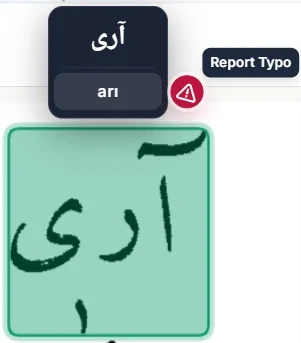
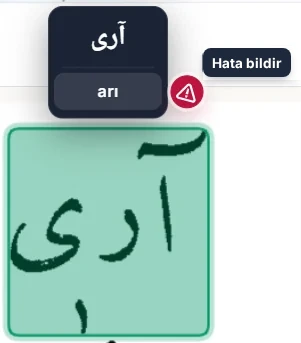
Kilavuz: C5 gorselleri Turkce (Hata bildir, Gonder, Iptal); B5'e Bu kelimeyi ara anlatimi ve gorseli

Changed region(s): [[0.6578, 0.1166, 1.0, 0.2332]]

diff --git a/pages/kullanim-kilavuzu-tr.html b/pages/kullanim-kilavuzu-tr.html
@@ -101,7 +101,7 @@ h2{margin:3.1rem 0 1.05rem;padding-top:.25rem}
   <div class="layout">
       <nav class="toc" aria-label="Bu sayfada"><p class="toc-title">Bu sayfada</p><a href="#ana-sayfa">Ana Sayfa</a><a href="#sonuclar">Arama Sonuçları</a><a href="#sozluk-sayfasi">Sözlük Sayfası</a><a href="#cozucu">Kelime Çözücü</a><a href="#cozucu-sonuc">Kelime Çözücü Sonuçları</a></nav>
       <main class="guide-steps">
-    <section aria-labelledby="ana-sayfa"><h2 id="ana-sayfa">Ana Sayfa</h2><p class="section-intro">LexiQamus iki ayrı arama biçimi sunar. <b>Ara</b> sekmesi okuyabildiğiniz bir kelimeyi doğrudan aramak, <b>Kelime Çözücü</b> ise okuyamadığınız bir kelimeyi elinizdeki ipuçlarından yola çıkarak tespit etmek içindir. İki sekme arasında istediğiniz an geçiş yapabilirsiniz.</p><figure class="shot shot-map" style="--nw:1879;--ar:6.8828"><div class="map"><img src="../assets/kilavuz/a-genel.webp?v=2" width="1879" height="273" alt="Ana sayfanın arama alanı: Kelime Çözücü ve Ara sekmeleri, arama kutusu, Ara düğmesi ve sözlük listesi"><a class="pin pin-sec pin-top" href="#cozucu" style="--x:44.39%;--ty:0.0769" aria-label="B">B</a><a class="pin  pin-top" href="#ara-genel" style="--x:55.56%;--ty:0.0769" aria-label="A1">A1</a><a class="pin pin-bottom" href="#osm-ing" style="--x:6.55%;--ty:0.7289" aria-label="A3">A3</a><a class="pin pin-bottom" href="#iki-taraf" style="--x:16.66%;--ty:0.7289" aria-label="A2">A2</a><a class="pin  pin-bottom" href="#klavye" style="--x:55.51%;--ty:0.7363" aria-label="A3">A3</a><a class="pin  pin-bottom" href="#sozlukler" style="--x:83.18%;--ty:0.7326" aria-label="A4">A4</a></div></figure><article class="block" id="ara-genel"><h3>Ara sekmesi</h3><p>Arama satırı tek bir çubuktan oluşur: solda kelimeyi Latin harfleriyle, sağda Osmanlı harfleriyle yazabileceğiniz alanlar, hemen yanında da hangi sözlüklerde arama yapılacağını belirlediğiniz liste yer alır.</p></article><article class="block" id="iki-taraf"><h3>Arama kutusu: iki taraf, iki alfabe</h3><p>Arama kutusu iki yarıdan oluşur. Sol yarıya kelimeyi <b>Latin harfleriyle</b>, sağ yarıya <b>Osmanlı harfleriyle</b> yazarsınız. İkisini birlikte de kullanabilirsiniz; kelimeyi nasıl okuduğunuzu biliyorsanız Latin tarafına yazmanız yeterlidir.</p><figure class="shot " style="--nw:1686;--ar:11.7902"><img src="../assets/kilavuz/a2-1.webp?v=2" width="1686" height="143" loading="lazy" alt=""></figure></article><article class="block" id="osm-ing"><h3>OSM ve İNG: nerede aranacağı</h3><p>Kutunun başındaki <b>OSM</b> ve <b>İNG</b> düğmeleri, yazdığınızın nerede aranacağını belirler. <b>OSM</b> seçiliyken Osmanlıca kelimeler arasında arama yapılır. <b>İNG</b> seçildiğinde ise arama sözlüklerdeki İngilizce tanımların içinde yapılır; böylece bir İngilizce kelimeyi tanımında geçiren bütün maddeleri görebilirsiniz.</p><figure class="shot shot-narrow" style="--nw:520;--ar:3.6364"><img src="../assets/kilavuz/a3-osm-ing.webp" width="520" height="143" loading="lazy" alt="Arama kutusunun başındaki OSM ve İNG düğmeleri"></figure></article><article class="block" id="klavye"><h3>Osmanlıca yazmak</h3><p>Osmanlıca tarafa tıkladığınızda ekran klavyesi açılır. Harflere tek tek tıklayarak yazabilirsiniz.</p><p>Fakat klavyeyi kullanmak zorunda değilsiniz. Her tuşun üzerinde, o harfe karşılık gelen fiziksel klavye tuşu yazılıdır: <b>A</b> tuşu ا, <b>B</b> tuşu ب, <b>SHF+S</b> ص harfini verir. Yani kelimeyi kendi klavyenizden hızlıca yazabilir, sadece emin olmadığınız harfler için ekrana bakabilirsiniz.</p><figure class="shot" style="--nw:1322;--ar:3.4072"><img src="../assets/kilavuz/a3-1.webp?v=3" width="1322" height="388" loading="lazy" alt="Osmanlıca tarafı seçili arama kutusu ve altında açılan ekran klavyesi"></figure></article><article class="block" id="sozlukler"><h3>Sözlük seçimi</h3><p>Öntanımlı olarak bütün sözlüklerde arama yapılır. Listeyi açıp <b>Tümünü Seç</b> işaretini kaldırdığınızda sözlükleri tek tek seçebilirsiniz.</p><p>Bu, aramayı belirli eserlerle sınırlamak istediğinizde işinize yarar: yalnızca seçtiğiniz sözlüklerden gelen sonuçlar listelenir.</p><figure class="shot shot-narrow" style="--s:0.75;--nw:613;--ar:0.8490"><img src="../assets/kilavuz/a4-1.webp?v=2" width="613" height="722" loading="lazy" alt=""></figure></article></section><section aria-labelledby="sonuclar"><h2 id="sonuclar">Arama Sonuçları</h2><p class="section-intro">Her iki arama biçimi de sizi aynı sonuç listesine götürür. Liste dört sütuna ayrılmıştır ve her satır, bir sözlükte geçen tek bir kaydı gösterir.</p><figure class="shot shot-map" style="--cap:100000px;--nw:1689;--ar:0.7008"><div class="map bands"><img src="../assets/kilavuz/b-ara-sonuclari.webp?v=4" width="1689" height="2410" alt="arı araması: arama kutusu, sonuç başlığı ve Tam Eşleşmeler, Çekimli Biçimler, Türemiş Biçimler, İbareler ve Birleşik Kelimeler, Kısmi Eşleşmeler grupları"><a class="pin pin-right" href="#yazilis-okunus" style="--px:0.7851;--ty:0.1510">·</a><a class="pin pin-right" href="#benzer-okunus" style="--px:0.9728;--ty:0.1884">·</a><a class="pin pin-left" href="#latin-okunuslar" style="--px:0.1835;--ty:0.2979">·</a><a class="pin pin-left" href="#iki-bolge" style="--px:0.0278;--ty:0.3432">·</a><a class="pin pin-top" href="#kategoriler" style="--px:0.3825;--ty:0.2154">·</a><a class="pin pin-right" href="#sozluk-kunye" style="--px:0.9372;--ty:0.2979">·</a></div></figure><article class="block" id="yazilis-okunus"><h3>Yazılışa göre ara</h3><p><b>Yazılışa Göre Ara</b>, aradığınız ifadenin muhtemel yazılış ve okunuşlarını düğmeler halinde sunar. Bir düğmeye tıkladığınızda arama o yazılışa göre yenilenir. Bu yazılış ve okunuşlar bir tahmin değildir; sözlükleri dijitalleştirirken sisteme veri olarak girdiğimiz kayıtlardan gelir. Böylece aynı kelimenin farklı imla ve okunuşlarına tek tıkla geçebilirsiniz.</p><figure class="shot" style="--nw:366;--ar:3.6600"><img src="../assets/kilavuz/b1-yazilis.webp?v=2" width="366" height="100" loading="lazy" alt="arı araması: Yazılışa göre ara düğmeleri (ارى, arı, ârî, eri)"></figure></article><article class="block" id="benzer-okunus"><h3>Benzer Okunuş</h3><p>Osmanlı alfabesinde aynı ya da çok yakın okunan birden fazla harf vardır: <span dir="rtl">ث</span> ile <span dir="rtl">س</span>, <span dir="rtl">ت</span> ile <span dir="rtl">ط</span> gibi. Bir kelimeyi duyduğunuz gibi yazdığınızda, sözlükteki imlası sizinkinden farklı olabilir. <b>Benzer Okunuş</b>, aramanızdaki harflerin yerine ses bakımından benzerlerini de koyarak arar; böylece imlası farklı olduğu için gözden kaçacak sonuçları da listeye ekler. Düğmenin yanındaki sayı, bu genişletmenin kaç sonuç getirdiğini gösterir.</p><figure class="shot" style="--nw:687;--ar:7.0102"><img src="../assets/kilavuz/b2-benzer-okunus.webp" width="687" height="98" loading="lazy" alt="Aramayı genişlet: Tam Eşleşme ve Benzer Okunuş düğmeleri"></figure></article><article class="block" id="latin-okunuslar"><h3>Latin okunuşlar</h3><p>Sonuç satırlarında her Osmanlıca kelimenin yanında bir Latin okunuşu yer alır. Bu okunuşların bir kısmı editörlerimiz tarafından tek tek kontrol edilip onaylanmıştır. Geri kalanı ise Osmanlıca yazılıştan hareketle otomatik olarak üretilmiştir ve bu yüzden her zaman isabetli olmayabilir.</p><p>İkisini ilk bakışta ayırt edebilirsiniz: otomatik üretilmiş okunuşlar soluk, editör onaylı okunuşlar koyu renkte gösterilir. Aşağıdaki ilk iki satırdaki <i>nazar</i> otomatik üretilmiştir, üçüncü satırdaki ise editör onaylıdır.</p><figure class="shot" style="--s:0.5;--nw:1778;--ar:2.9437"><img src="../assets/kilavuz/b-okunus-renk.webp?v=2" width="1778" height="604" loading="lazy" alt="Soluk renkte otomatik üretilmiş okunuşlar ve koyu renkte editör onaylı okunuş"></figure><p>Bir okunuşun üzerine geldiğinizde yanında küçük bir kutu açılır. Kutunun başındaki etiket okunuşun durumunu söyler: <b>Otomatik üretim</b> ya da <b>Editör onaylı</b>. Altındaki iki düğme ise okunuş hakkında bize geri bildirim vermeniz içindir.</p><figure class="shot shot-narrow" style="--s:0.5;--nw:924;--ar:2.2000"><img src="../assets/kilavuz/b-okunus-kutu.webp?v=2" width="924" height="420" loading="lazy" alt="Okunuşun üzerine gelince açılan kutu: Otomatik üretim ve Editör onaylı etiketleri, Doğru ve Düzelt düğmeleri"></figure><p><b>Doğru</b> düğmesiyle okunuşun isabetli olduğunu tek tıkla bildirirsiniz; düğme yeşile döner. Otomatik üretilmiş okunuşlarda bu işaret, hangi okunuşların doğru olduğunu görmemize yardımcı olur. İşaretlenen okunuşları editörlerimiz kontrol eder; kontrolden geçen okunuş <b>Editör onaylı</b> hâline gelir ve koyu renkte gösterilmeye başlar.</p><figure class="shot shot-narrow" style="--s:0.5;--nw:924;--ar:4.5743"><img src="../assets/kilavuz/b-okunus-dogru.webp?v=2" width="924" height="202" loading="lazy" alt="Doğru düğmesine basılmış hâli"></figure><p><b>Düzelt</b> düğmesi bir bildirim penceresi açar. Pencerenin başında kelimenin Osmanlıca yazılışı ile okunuşu durur, altında üç seçenek bulunur. <b>Yanlış</b> pencere açıldığında seçili gelir ve okunuşun neden yanlış olduğunu açıklamanızı ister; doğrusunu biliyorsanız onu da yazabilirsiniz. Okunuşun doğru olduğunu belirtip bir not eklemek isterseniz <b>Doğru</b>’yu seçersiniz; bu durumda not yazmak isteğe bağlıdır. Doğru ya da yanlış demeden okunuş hakkında söylemek istediğiniz bir şey varsa <b>Görüş</b>’ü kullanırsınız.</p><figure class="shot shot-narrow" style="--s:0.5;--nw:680;--ar:1.0759"><img src="../assets/kilavuz/b-okunus-bildirim.webp?v=2" width="680" height="632" loading="lazy" alt="Düzelt ile açılan bildirim penceresi: Doğru, Yanlış, Görüş seçenekleri ve açıklama alanı"></figure><p>Açıklamanızı yazıp <b>Gönder</b>’e bastığınızda bildiriminiz bize ulaşır ve pencerede bir teşekkür mesajı görünür. Gelen bildirimleri de editörlerimiz inceler; okunuş gerekiyorsa düzeltilir ve kontrolün ardından <b>Editör onaylı</b> hâline gelir. Vazgeçerseniz <b>İptal</b>’e basmanız yeterlidir.</p><figure class="shot shot-narrow" style="--s:0.5;--nw:680;--ar:1.5888"><img src="../assets/kilavuz/b-okunus-tesekkur.webp" width="680" height="428" loading="lazy" alt="Gönderdikten sonra görünen teşekkür penceresi"></figure></article><article class="block" id="kategoriler"><h3>Kelime kategorileri</h3><p>Kategori etiketi, sonucun maddeyle nasıl bir ilişki içinde olduğunu söyler ve satırın solundaki renkli çizgi de aynı ayrımı yapar.</p><p><b>Madde Başı</b>: kelime, sözlükte kendi adına açılmış bir maddenin başlığıdır.</p><p><b>Alt Madde Başı</b>: kelime, bir madde başının altında ayrıca ele alınmış bir alt maddedir.</p><p><b>İlişkili</b>: kelime maddenin başlığı değildir, madde içinde geçmektedir yahut o maddeyle bağlantılıdır.</p><figure class="shot" style="--nw:1129;--ar:2.7403"><img src="../assets/kilavuz/b3-kategoriler.webp?v=2" width="1129" height="412" loading="lazy" alt="Kategori örnekleri: Madde Başı (yeşil), Alt Madde Başı (turuncu) ve İlişkili (mavi) satırları"></figure></article><article class="block" id="iki-bolge"><h3>Satırda iki tıklama bölgesi</h3><p>Her satır iki ayrı bölgeye ayrılır ve hangisine tıkladığınız sizi farklı yere götürür. İmleci satırın üzerine getirdiğinizde hangi bölgede olduğunuz renklenerek belli olur.</p><p>Sol bölge, yani sonuç kelimesinin kendisi: <b>Sonuca git</b>. Orijinal sözlük sayfası açılır ve doğrudan kelimenin geçtiği yer karşınıza gelir. Buradan yukarı kaydırarak maddenin başına da çıkabilirsiniz.</p><p>Sağ bölge, yani madde başı ve sözlük bilgisi: <b>Madde başına git</b>. Aynı sayfa açılır, fakat bu kez doğrudan maddenin başından.</p><figure class="shot " style="--nw:1700;--ar:9.6045"><img src="../assets/kilavuz/c2-1.webp?v=2" width="1700" height="177" loading="lazy" alt=""></figure><figure class="shot " style="--nw:1700;--ar:9.6045"><img src="../assets/kilavuz/c2-2.webp?v=2" width="1700" height="177" loading="lazy" alt=""></figure></article><article class="block" id="sozluk-kunye"><h3>Sözlük ve künye</h3><p>Sütunun sağ ucundaki düğme o kaydın künye bilgilerini açar. Eserin adı, yazarı, yılı, cildi ve sayfası burada toplu olarak yer alır.</p><p>Künye penceresinde atıf üç ayrı biçimde hazır olarak sunulur: APA, Chicago ve Harvard. Kullanacağınız biçimi seçip tek düğmeyle kopyalayabilirsiniz.</p><figure class="shot" style="--s:1;--nw:721;--ar:5.5462"><img src="../assets/kilavuz/b-kunye-hucre.webp?v=2" width="721" height="130" loading="lazy" alt="Sözlük sütunu: Kamus-ı Türki, 1899, sayfa 31 ve kopyalama düğmesi"></figure><figure class="shot" style="--s:.5;--nw:1242;--ar:1.0991"><img src="../assets/kilavuz/b-kunye-pencere.webp" width="1242" height="1130" loading="lazy" alt="Künye Bilgileri penceresi: Kamus-ı Türki, Şemseddin Sami, 1899, cilt 1, sayfa 31"></figure></article><article class="block" id="tara"><h3>Benzer Eşleşmeleri Tara</h3><p>Aradığınızı listede bulamadıysanız sayfanın altındaki bu düğmeye basın.</p><p>LexiQamus, girdiğiniz yazılışa harf harf yakın duran kelimeleri tarar ve numaralı bir liste halinde önünüze getirir. Yanlış okunmuş tek bir harf yüzünden gözden kaçan kelime çoğu zaman bu listede çıkar.</p><figure class="shot shot-narrow" style="--s:0.75;--nw:387;--ar:3.7212"><img src="../assets/kilavuz/c7-1.webp?v=2" width="387" height="104" loading="lazy" alt=""></figure><figure class="shot shot-narrow" style="--s:.5;--cap:100000px;--nw:880;--ar:0.4143"><img src="../assets/kilavuz/b-bunu-mu.webp?v=3" width="880" height="2124" loading="lazy" alt="Bunu mu demek istediniz? listesi: arı aramasına yakın 14 yazılış ve okunuşları"></figure></article></section><section aria-labelledby="sozluk-sayfasi"><h2 id="sozluk-sayfasi">Sözlük Sayfası</h2><p class="section-intro">Bir sonuca yahut madde başına tıkladığınızda sözlüğün orijinal sayfası bir pencerede açılır. Bu pencere yalnızca taramayı göstermez: o sayfada dijitalleştirilmiş kelimeleri tarama üzerinde işaretler ve her birinin dijital karşılığını gösterir.</p><figure class="shot shot-map" style="--cap:100000px;--nw:1424;--ar:1.9037"><div class="map bands"><img src="../assets/kilavuz/c-sozluk-genel.webp" width="1424" height="748" alt="Sözlük sayfası penceresi: taramada renkli kutular, iki yanda oklar, altta Dilim, Sütun, Sayfa düğmeleri"><a class="pin pin-bottom" href="#dilim-sutun-sayfa" style="--px:0.4993;--ty:0.9719">·</a><a class="pin pin-right" href="#renkli-kutular" style="--px:0.7584;--ty:0.6698">·</a><a class="pin pin-right" href="#kelime-uzerine" style="--px:0.8237;--ty:0.2406">·</a><a class="pin pin-top" href="#kelimeye-tikla" style="--px:0.4424;--ty:0.1471">·</a><a class="pin pin-right" href="#hata-bildir" style="--px:0.8237;--ty:0.3877">·</a><a class="pin pin-left" href="#madde-gezinme" style="--px:0.0365;--ty:0.4973">·</a><a class="pin pin-right" href="#madde-gezinme" style="--px:0.9607;--ty:0.4973">·</a></div></figure><article class="block" id="dilim-sutun-sayfa"><h3>Dilim, Sütun, Sayfa</h3><p>Pencere ilk açıldığında <b>Dilim</b> görünümü etkindir. Alttaki şerit, aradığınız yerin sözlüğün kaçıncı sayfasında, hangi sütununda ve o sütunun kaçıncı diliminde olduğunu söyler.</p><p><b>Sütun</b>'a tıkladığınızda sütunun tamamı açılır. <b>Sayfa</b>'ya tıkladığınızda ise sayfanın tamamını görürsünüz. Dijitalleştirilmiş kelimeler üç görünümde de işaretli kalır.</p><figure class="shot " style="--nw:1425;--ar:1.6964"><img src="../assets/kilavuz/d1-2.webp?v=2" width="1425" height="840" loading="lazy" alt=""></figure><figure class="shot " style="--nw:1425;--ar:1.6964"><img src="../assets/kilavuz/d1-3.webp?v=2" width="1425" height="840" loading="lazy" alt=""></figure></article><article class="block" id="renkli-kutular"><h3>Renkli kutular</h3><p>Maddede dijitalleştirilmiş olan kelimeler tarama üzerinde kutu içine alınır. Kutuların rengi kelime kategorisine göre değişir; sonuç listesindeki kategori ayrımının aynısı burada da geçerlidir.</p><p>Gri duran kelimeler de dijitalleştirilmiştir. Üzerlerine geldiğinizde renklenir ve dijital karşılıkları görünür.</p><figure class="shot " style="--nw:947;--ar:1.3886"><img src="../assets/kilavuz/d2-1.webp?v=2" width="947" height="682" loading="lazy" alt=""></figure></article><article class="block" id="kelime-uzerine"><h3>Kelimenin dijital karşılığı</h3><p>Bir kutunun üzerine geldiğinizde kelimenin Osmanlıca yazılışı ve Latin okunuşu alt alta belirir.</p><p>Kelime bir öbeğin parçasıysa iki katman birden görürsünüz: üstte imlecin bulunduğu kelimenin dijitali, altta öbeğin tamamının dijitali.</p><figure class="shot shot-narrow" style="--nw:222;--ar:0.6491"><img src="../assets/kilavuz/d3-1.webp?v=2" width="222" height="342" loading="lazy" alt=""></figure><figure class="shot shot-narrow" style="--nw:357;--ar:1.0500"><img src="../assets/kilavuz/d3-2.webp?v=2" width="357" height="340" loading="lazy" alt=""></figure></article><article class="block" id="kelimeye-tikla"><h3>Kelimeye tıklamak</h3><p>Tarama üzerindeki bir kelimeye yahut beliren dijital değerlerin üzerine tıkladığınızda o kelime için yeni bir arama başlar ve yeni sekmede açılır. Böylece okuduğunuz maddeden ayrılmadan yan yollara girebilirsiniz.</p><figure class="shot shot-narrow" style="--nw:357;--ar:1.0500"><img src="../assets/kilavuz/d4-1.webp?v=2" width="357" height="340" loading="lazy" alt=""></figure></article><article class="block" id="hata-bildir"><h3>Hata bildirme</h3><p>Dijitalleştirmede bir hata olduğunu düşünüyorsanız kelimenin üzerine gelin ve yanında beliren uyarı işaretine basın.</p><p>Açılan pencerede kelime hazır olarak gelir. Altındaki alana hatayı yahut önerdiğiniz düzeltmeyi yazıp gönderirsiniz.</p><figure class="shot shot-narrow" style="--nw:301;--ar:0.8776"><img src="../assets/kilavuz/d5-1.webp?v=2" width="301" height="343" loading="lazy" alt=""></figure><figure class="shot " style="--nw:751;--ar:1.8452"><img src="../assets/kilavuz/d5-2.webp?v=2" width="751" height="407" loading="lazy" alt=""></figure></article><article class="block" id="madde-gezinme"><h3>Önceki ve sonraki madde</h3><p>Pencerenin iki yanındaki oklarla maddeler arasında tek tıkla gezinebilirsiniz. Oklar dilim, sütun ve sayfa görünümlerinin hepsinde çalışır.</p></article></section><section aria-labelledby="cozucu"><h2 id="cozucu">Kelime Çözücü</h2><p class="section-intro">El yazması bir metinde okuyamadığınız bir kelimeyle karşılaştığınızda kullanacağınız araç budur. Okuyabildiğiniz harfleri girer, okuyamadıklarınız için işaret bırakırsınız; LexiQamus bu ölçütlere uyan kelimeleri listeler.</p><figure class="shot shot-map" style="--nw:1484;--ar:1.2938"><div class="map"><img src="../assets/kilavuz/d-cozucu-genel.webp" width="1484" height="1147" alt="Kelime Çözücü: harf kutuları ve altında açılan çözücü klavyesi"><a class="pin pin-top" href="#kutular" style="--x:47.98%;--ty:0.0262" aria-label="B1">B1</a><a class="pin pin-bottom" href="#cozucu-klavye" style="--x:50.00%;--ty:0.9738" aria-label="B2">B2</a></div></figure><article class="block" id="kutular"><h3>Kutular</h3><p>Her kutu bir karakteri temsil eder. Boş bırakılan kutu boşluk demektir, dolayısıyla tek kelimeleri olduğu gibi kelime öbeklerini de arayabilirsiniz.</p><p>Kutuların arasındaki <b>+</b> düğmeleriyle araya yeni kutu eklersiniz. Kutuların altındaki zincir işaretleri harflerin bitişik olup olmadığını gösterir; bunu belirttiğinizde sonuçlar daralır.</p></article><article class="block" id="cozucu-klavye"><h3>Çözücü klavyesi</h3><p>Bir kutuya tıkladığınızda harf klavyesi açılır. Buradan hem normal harfleri hem de benzer şekilli harfleri temsil eden özel karakterleri girebilirsiniz.</p><p>Üstteki iki yeşil tuş önemlidir. <b>*</b> okunamayan tek bir harf demektir. <b>∞</b> ise adedi bilinmeyen, bir veya birden fazla okunamayan harf anlamına gelir. Aramanız sonuç vermiyorsa, emin olmadığınız kısma bu işaretleri koyarak aramayı genişletebilirsiniz.</p><p>Bir kutuya birden fazla harf de girebilirsiniz. و, د ve ر gibi birbirine karışan harflerde, ihtimallerin hepsini aynı kutuya koyup hepsini birden aratmış olursunuz.</p></article><article class="block" id="ipucu-dolu"><h3>Doldurulmuş bir örnek</h3><p>Aşağıda okunabilen harflerin girildiği, okunamayan bir harf için <b>*</b> bırakılan ve harfler arası bitişiklik durumunun işaretlendiği bir çözücü satırı görünüyor. <b>Ara</b> düğmesine bastığınızda bu ölçütlere uyan kelimeler listelenir.</p><figure class="shot " style="--s:.68;--nw:669;--ar:5.3095"><img src="../assets/kilavuz/b3-1.webp?v=2" width="669" height="126" loading="lazy" alt=""></figure></article><article class="block" id="cozucu-sonuclar"><h3>Sonuçlar</h3><p><b>Sonuç</b>: aradığınız ölçütlere uyan kelimenin kendisi, Osmanlıca yazılışı ve Latin okunuşuyla birlikte.</p><p><b>Kategori</b>: bu kelimenin bulunduğu sözlük maddesiyle ilişkisi.</p><p><b>Madde Başı</b>: kelimenin geçtiği maddenin başlığı. Sonuç kelimesinin kendisi bir madde başı olabileceği gibi, başka bir maddenin içinde de geçiyor olabilir.</p><p><b>Sözlük</b>: kaydın alındığı eser, basım yılı ve sayfa numarası.</p><figure class="shot " style="--nw:1680;--ar:1.1483"><img src="../assets/kilavuz/c1-1.webp?v=11" width="1680" height="1463" loading="lazy" alt=""></figure></article></section><section aria-labelledby="cozucu-sonuc"><h2 id="cozucu-sonuc">Kelime Çözücü Sonuçları</h2><p class="section-intro">Çözücüyle yapılan aramanın sonuç sayfası, yukarıda anlatılan listeyle aynı şekilde çalışır. Yalnızca iki farkı vardır.</p><article class="block" id="ipuclarina-gore"><h3>İpuçlarına göre</h3><p>Sonuçların üstünde, aramayı hangi ipuçlarıyla yaptığınız kutu dizisi halinde durur. Böylece listeye bakarken hangi harfleri girdiğinizi, nereye <b>*</b> veya <b>∞</b> koyduğunuzu görebilirsiniz.</p><p>Sonuç sayısının yanındaki <b>İpuçlarına göre</b> ifadesi de listenin bu ölçütlere göre oluşturulduğunu belirtir.</p><figure class="shot " style="--nw:1664;--ar:4.9672"><img src="../assets/kilavuz/e1-1.webp?v=2" width="1664" height="335" loading="lazy" alt=""></figure></article><article class="block" id="daha-fazla"><h3>Daha fazla sonuç</h3><p>Çözücü aramaları çok sayıda sonuç verebildiği için liste bir kısmıyla açılır. Sayfanın altındaki düğme kaç sonucun gösterildiğini ve geriye kaç tane kaldığını söyler; bastığınızda listenin devamı yüklenir.</p><figure class="shot shot-narrow" style="--nw:750;--ar:5.0000"><img src="../assets/kilavuz/e2-1.webp" width="750" height="150" loading="lazy" alt=""></figure></article></section>
+    <section aria-labelledby="ana-sayfa"><h2 id="ana-sayfa">Ana Sayfa</h2><p class="section-intro">LexiQamus iki ayrı arama biçimi sunar. <b>Ara</b> sekmesi okuyabildiğiniz bir kelimeyi doğrudan aramak, <b>Kelime Çözücü</b> ise okuyamadığınız bir kelimeyi elinizdeki ipuçlarından yola çıkarak tespit etmek içindir. İki sekme arasında istediğiniz an geçiş yapabilirsiniz.</p><figure class="shot shot-map" style="--nw:1879;--ar:6.8828"><div class="map"><img src="../assets/kilavuz/a-genel.webp?v=2" width="1879" height="273" alt="Ana sayfanın arama alanı: Kelime Çözücü ve Ara sekmeleri, arama kutusu, Ara düğmesi ve sözlük listesi"><a class="pin pin-sec pin-top" href="#cozucu" style="--x:44.39%;--ty:0.0769" aria-label="B">B</a><a class="pin  pin-top" href="#ara-genel" style="--x:55.56%;--ty:0.0769" aria-label="A1">A1</a><a class="pin pin-bottom" href="#osm-ing" style="--x:6.55%;--ty:0.7289" aria-label="A3">A3</a><a class="pin pin-bottom" href="#iki-taraf" style="--x:16.66%;--ty:0.7289" aria-label="A2">A2</a><a class="pin  pin-bottom" href="#klavye" style="--x:55.51%;--ty:0.7363" aria-label="A3">A3</a><a class="pin  pin-bottom" href="#sozlukler" style="--x:83.18%;--ty:0.7326" aria-label="A4">A4</a></div></figure><article class="block" id="ara-genel"><h3>Ara sekmesi</h3><p>Arama satırı tek bir çubuktan oluşur: solda kelimeyi Latin harfleriyle, sağda Osmanlı harfleriyle yazabileceğiniz alanlar, hemen yanında da hangi sözlüklerde arama yapılacağını belirlediğiniz liste yer alır.</p></article><article class="block" id="iki-taraf"><h3>Arama kutusu: iki taraf, iki alfabe</h3><p>Arama kutusu iki yarıdan oluşur. Sol yarıya kelimeyi <b>Latin harfleriyle</b>, sağ yarıya <b>Osmanlı harfleriyle</b> yazarsınız. İkisini birlikte de kullanabilirsiniz; kelimeyi nasıl okuduğunuzu biliyorsanız Latin tarafına yazmanız yeterlidir.</p><figure class="shot " style="--nw:1686;--ar:11.7902"><img src="../assets/kilavuz/a2-1.webp?v=2" width="1686" height="143" loading="lazy" alt=""></figure></article><article class="block" id="osm-ing"><h3>OSM ve İNG: nerede aranacağı</h3><p>Kutunun başındaki <b>OSM</b> ve <b>İNG</b> düğmeleri, yazdığınızın nerede aranacağını belirler. <b>OSM</b> seçiliyken Osmanlıca kelimeler arasında arama yapılır. <b>İNG</b> seçildiğinde ise arama sözlüklerdeki İngilizce tanımların içinde yapılır; böylece bir İngilizce kelimeyi tanımında geçiren bütün maddeleri görebilirsiniz.</p><figure class="shot shot-narrow" style="--nw:520;--ar:3.6364"><img src="../assets/kilavuz/a3-osm-ing.webp" width="520" height="143" loading="lazy" alt="Arama kutusunun başındaki OSM ve İNG düğmeleri"></figure></article><article class="block" id="klavye"><h3>Osmanlıca yazmak</h3><p>Osmanlıca tarafa tıkladığınızda ekran klavyesi açılır. Harflere tek tek tıklayarak yazabilirsiniz.</p><p>Fakat klavyeyi kullanmak zorunda değilsiniz. Her tuşun üzerinde, o harfe karşılık gelen fiziksel klavye tuşu yazılıdır: <b>A</b> tuşu ا, <b>B</b> tuşu ب, <b>SHF+S</b> ص harfini verir. Yani kelimeyi kendi klavyenizden hızlıca yazabilir, sadece emin olmadığınız harfler için ekrana bakabilirsiniz.</p><figure class="shot" style="--nw:1322;--ar:3.4072"><img src="../assets/kilavuz/a3-1.webp?v=3" width="1322" height="388" loading="lazy" alt="Osmanlıca tarafı seçili arama kutusu ve altında açılan ekran klavyesi"></figure></article><article class="block" id="sozlukler"><h3>Sözlük seçimi</h3><p>Öntanımlı olarak bütün sözlüklerde arama yapılır. Listeyi açıp <b>Tümünü Seç</b> işaretini kaldırdığınızda sözlükleri tek tek seçebilirsiniz.</p><p>Bu, aramayı belirli eserlerle sınırlamak istediğinizde işinize yarar: yalnızca seçtiğiniz sözlüklerden gelen sonuçlar listelenir.</p><figure class="shot shot-narrow" style="--s:0.75;--nw:613;--ar:0.8490"><img src="../assets/kilavuz/a4-1.webp?v=2" width="613" height="722" loading="lazy" alt=""></figure></article></section><section aria-labelledby="sonuclar"><h2 id="sonuclar">Arama Sonuçları</h2><p class="section-intro">Her iki arama biçimi de sizi aynı sonuç listesine götürür. Liste dört sütuna ayrılmıştır ve her satır, bir sözlükte geçen tek bir kaydı gösterir.</p><figure class="shot shot-map" style="--cap:100000px;--nw:1689;--ar:0.7008"><div class="map bands"><img src="../assets/kilavuz/b-ara-sonuclari.webp?v=4" width="1689" height="2410" alt="arı araması: arama kutusu, sonuç başlığı ve Tam Eşleşmeler, Çekimli Biçimler, Türemiş Biçimler, İbareler ve Birleşik Kelimeler, Kısmi Eşleşmeler grupları"><a class="pin pin-right" href="#yazilis-okunus" style="--px:0.7851;--ty:0.1510">·</a><a class="pin pin-right" href="#benzer-okunus" style="--px:0.9728;--ty:0.1884">·</a><a class="pin pin-left" href="#latin-okunuslar" style="--px:0.1835;--ty:0.2979">·</a><a class="pin pin-left" href="#iki-bolge" style="--px:0.0278;--ty:0.3432">·</a><a class="pin pin-top" href="#kategoriler" style="--px:0.3825;--ty:0.2154">·</a><a class="pin pin-right" href="#sozluk-kunye" style="--px:0.9372;--ty:0.2979">·</a></div></figure><article class="block" id="yazilis-okunus"><h3>Yazılışa göre ara</h3><p><b>Yazılışa Göre Ara</b>, aradığınız ifadenin muhtemel yazılış ve okunuşlarını düğmeler halinde sunar. Bir düğmeye tıkladığınızda arama o yazılışa göre yenilenir. Bu yazılış ve okunuşlar bir tahmin değildir; sözlükleri dijitalleştirirken sisteme veri olarak girdiğimiz kayıtlardan gelir. Böylece aynı kelimenin farklı imla ve okunuşlarına tek tıkla geçebilirsiniz.</p><figure class="shot" style="--nw:366;--ar:3.6600"><img src="../assets/kilavuz/b1-yazilis.webp?v=2" width="366" height="100" loading="lazy" alt="arı araması: Yazılışa göre ara düğmeleri (ارى, arı, ârî, eri)"></figure></article><article class="block" id="benzer-okunus"><h3>Benzer Okunuş</h3><p>Osmanlı alfabesinde aynı ya da çok yakın okunan birden fazla harf vardır: <span dir="rtl">ث</span> ile <span dir="rtl">س</span>, <span dir="rtl">ت</span> ile <span dir="rtl">ط</span> gibi. Bir kelimeyi duyduğunuz gibi yazdığınızda, sözlükteki imlası sizinkinden farklı olabilir. <b>Benzer Okunuş</b>, aramanızdaki harflerin yerine ses bakımından benzerlerini de koyarak arar; böylece imlası farklı olduğu için gözden kaçacak sonuçları da listeye ekler. Düğmenin yanındaki sayı, bu genişletmenin kaç sonuç getirdiğini gösterir.</p><figure class="shot" style="--nw:687;--ar:7.0102"><img src="../assets/kilavuz/b2-benzer-okunus.webp" width="687" height="98" loading="lazy" alt="Aramayı genişlet: Tam Eşleşme ve Benzer Okunuş düğmeleri"></figure></article><article class="block" id="latin-okunuslar"><h3>Latin okunuşlar</h3><p>Sonuç satırlarında her Osmanlıca kelimenin yanında bir Latin okunuşu yer alır. Bu okunuşların bir kısmı editörlerimiz tarafından tek tek kontrol edilip onaylanmıştır. Geri kalanı ise Osmanlıca yazılıştan hareketle otomatik olarak üretilmiştir ve bu yüzden her zaman isabetli olmayabilir.</p><p>İkisini ilk bakışta ayırt edebilirsiniz: otomatik üretilmiş okunuşlar soluk, editör onaylı okunuşlar koyu renkte gösterilir. Aşağıdaki ilk iki satırdaki <i>nazar</i> otomatik üretilmiştir, üçüncü satırdaki ise editör onaylıdır.</p><figure class="shot" style="--s:0.5;--nw:1778;--ar:2.9437"><img src="../assets/kilavuz/b-okunus-renk.webp?v=2" width="1778" height="604" loading="lazy" alt="Soluk renkte otomatik üretilmiş okunuşlar ve koyu renkte editör onaylı okunuş"></figure><p>Bir okunuşun üzerine geldiğinizde yanında küçük bir kutu açılır. Kutunun başındaki etiket okunuşun durumunu söyler: <b>Otomatik üretim</b> ya da <b>Editör onaylı</b>. Altındaki iki düğme ise okunuş hakkında bize geri bildirim vermeniz içindir.</p><figure class="shot shot-narrow" style="--s:0.5;--nw:924;--ar:2.2000"><img src="../assets/kilavuz/b-okunus-kutu.webp?v=2" width="924" height="420" loading="lazy" alt="Okunuşun üzerine gelince açılan kutu: Otomatik üretim ve Editör onaylı etiketleri, Doğru ve Düzelt düğmeleri"></figure><p><b>Doğru</b> düğmesiyle okunuşun isabetli olduğunu tek tıkla bildirirsiniz; düğme yeşile döner. Otomatik üretilmiş okunuşlarda bu işaret, hangi okunuşların doğru olduğunu görmemize yardımcı olur. İşaretlenen okunuşları editörlerimiz kontrol eder; kontrolden geçen okunuş <b>Editör onaylı</b> hâline gelir ve koyu renkte gösterilmeye başlar.</p><figure class="shot shot-narrow" style="--s:0.5;--nw:924;--ar:4.5743"><img src="../assets/kilavuz/b-okunus-dogru.webp?v=2" width="924" height="202" loading="lazy" alt="Doğru düğmesine basılmış hâli"></figure><p><b>Düzelt</b> düğmesi bir bildirim penceresi açar. Pencerenin başında kelimenin Osmanlıca yazılışı ile okunuşu durur, altında üç seçenek bulunur. <b>Yanlış</b> pencere açıldığında seçili gelir ve okunuşun neden yanlış olduğunu açıklamanızı ister; doğrusunu biliyorsanız onu da yazabilirsiniz. Okunuşun doğru olduğunu belirtip bir not eklemek isterseniz <b>Doğru</b>’yu seçersiniz; bu durumda not yazmak isteğe bağlıdır. Doğru ya da yanlış demeden okunuş hakkında söylemek istediğiniz bir şey varsa <b>Görüş</b>’ü kullanırsınız.</p><figure class="shot shot-narrow" style="--s:0.5;--nw:680;--ar:1.0759"><img src="../assets/kilavuz/b-okunus-bildirim.webp?v=2" width="680" height="632" loading="lazy" alt="Düzelt ile açılan bildirim penceresi: Doğru, Yanlış, Görüş seçenekleri ve açıklama alanı"></figure><p>Açıklamanızı yazıp <b>Gönder</b>’e bastığınızda bildiriminiz bize ulaşır ve pencerede bir teşekkür mesajı görünür. Gelen bildirimleri de editörlerimiz inceler; okunuş gerekiyorsa düzeltilir ve kontrolün ardından <b>Editör onaylı</b> hâline gelir. Vazgeçerseniz <b>İptal</b>’e basmanız yeterlidir.</p><figure class="shot shot-narrow" style="--s:0.5;--nw:680;--ar:1.5888"><img src="../assets/kilavuz/b-okunus-tesekkur.webp" width="680" height="428" loading="lazy" alt="Gönderdikten sonra görünen teşekkür penceresi"></figure></article><article class="block" id="kategoriler"><h3>Kelime kategorileri</h3><p>Kategori etiketi, sonucun maddeyle nasıl bir ilişki içinde olduğunu söyler ve satırın solundaki renkli çizgi de aynı ayrımı yapar.</p><p><b>Madde Başı</b>: kelime, sözlükte kendi adına açılmış bir maddenin başlığıdır.</p><p><b>Alt Madde Başı</b>: kelime, bir madde başının altında ayrıca ele alınmış bir alt maddedir.</p><p><b>İlişkili</b>: kelime maddenin başlığı değildir, madde içinde geçmektedir yahut o maddeyle bağlantılıdır.</p><figure class="shot" style="--nw:1129;--ar:2.7403"><img src="../assets/kilavuz/b3-kategoriler.webp?v=2" width="1129" height="412" loading="lazy" alt="Kategori örnekleri: Madde Başı (yeşil), Alt Madde Başı (turuncu) ve İlişkili (mavi) satırları"></figure></article><article class="block" id="iki-bolge"><h3>Satırda iki tıklama bölgesi</h3><p>Her satır iki ayrı bölgeye ayrılır ve hangisine tıkladığınız sizi farklı yere götürür. İmleci satırın üzerine getirdiğinizde hangi bölgede olduğunuz renklenerek belli olur.</p><p>Sol bölge, yani sonuç kelimesinin kendisi: <b>Sonuca git</b>. Orijinal sözlük sayfası açılır ve doğrudan kelimenin geçtiği yer karşınıza gelir. Buradan yukarı kaydırarak maddenin başına da çıkabilirsiniz.</p><p>Sağ bölge, yani madde başı ve sözlük bilgisi: <b>Madde başına git</b>. Aynı sayfa açılır, fakat bu kez doğrudan maddenin başından.</p><figure class="shot " style="--nw:1700;--ar:9.6045"><img src="../assets/kilavuz/c2-1.webp?v=2" width="1700" height="177" loading="lazy" alt=""></figure><figure class="shot " style="--nw:1700;--ar:9.6045"><img src="../assets/kilavuz/c2-2.webp?v=2" width="1700" height="177" loading="lazy" alt=""></figure><p>Bu iki bölgenin içinde ayrıca dört kelime vardır: sonucun Osmanlıca yazılışı ve Latin okunuşu, madde başının Osmanlıca yazılışı ve Latin okunuşu. İmleci bu kelimelerden birinin tam üzerine getirdiğinizde <b>Bu kelimeyi ara</b> ipucu belirir. Tıkladığınızda o kelime bütün sözlüklerde aranır ve sonuçlar yeni bir sekmede açılır; bulunduğunuz sonuç sayfası olduğu gibi kalır. Böylece bir sonuçta ya da madde başında gözünüze çarpan kelimenin peşine, aramanızı kaybetmeden düşebilirsiniz.</p><figure class="shot" style="--nw:1183;--ar:6.2926"><img src="../assets/kilavuz/b-kelime-ara.webp" width="1183" height="188" loading="lazy" alt="Sonuç satırında bir kelimenin üzerine gelince beliren Bu kelimeyi ara ipucu"></figure></article><article class="block" id="sozluk-kunye"><h3>Sözlük ve künye</h3><p>Sütunun sağ ucundaki düğme o kaydın künye bilgilerini açar. Eserin adı, yazarı, yılı, cildi ve sayfası burada toplu olarak yer alır.</p><p>Künye penceresinde atıf üç ayrı biçimde hazır olarak sunulur: APA, Chicago ve Harvard. Kullanacağınız biçimi seçip tek düğmeyle kopyalayabilirsiniz.</p><figure class="shot" style="--s:1;--nw:721;--ar:5.5462"><img src="../assets/kilavuz/b-kunye-hucre.webp?v=2" width="721" height="130" loading="lazy" alt="Sözlük sütunu: Kamus-ı Türki, 1899, sayfa 31 ve kopyalama düğmesi"></figure><figure class="shot" style="--s:.5;--nw:1242;--ar:1.0991"><img src="../assets/kilavuz/b-kunye-pencere.webp" width="1242" height="1130" loading="lazy" alt="Künye Bilgileri penceresi: Kamus-ı Türki, Şemseddin Sami, 1899, cilt 1, sayfa 31"></figure></article><article class="block" id="tara"><h3>Benzer Eşleşmeleri Tara</h3><p>Aradığınızı listede bulamadıysanız sayfanın altındaki bu düğmeye basın.</p><p>LexiQamus, girdiğiniz yazılışa harf harf yakın duran kelimeleri tarar ve numaralı bir liste halinde önünüze getirir. Yanlış okunmuş tek bir harf yüzünden gözden kaçan kelime çoğu zaman bu listede çıkar.</p><figure class="shot shot-narrow" style="--s:0.75;--nw:387;--ar:3.7212"><img src="../assets/kilavuz/c7-1.webp?v=2" width="387" height="104" loading="lazy" alt=""></figure><figure class="shot shot-narrow" style="--s:.5;--cap:100000px;--nw:880;--ar:0.4143"><img src="../assets/kilavuz/b-bunu-mu.webp?v=3" width="880" height="2124" loading="lazy" alt="Bunu mu demek istediniz? listesi: arı aramasına yakın 14 yazılış ve okunuşları"></figure></article></section><section aria-labelledby="sozluk-sayfasi"><h2 id="sozluk-sayfasi">Sözlük Sayfası</h2><p class="section-intro">Bir sonuca yahut madde başına tıkladığınızda sözlüğün orijinal sayfası bir pencerede açılır. Bu pencere yalnızca taramayı göstermez: o sayfada dijitalleştirilmiş kelimeleri tarama üzerinde işaretler ve her birinin dijital karşılığını gösterir.</p><figure class="shot shot-map" style="--cap:100000px;--nw:1424;--ar:1.9037"><div class="map bands"><img src="../assets/kilavuz/c-sozluk-genel.webp" width="1424" height="748" alt="Sözlük sayfası penceresi: taramada renkli kutular, iki yanda oklar, altta Dilim, Sütun, Sayfa düğmeleri"><a class="pin pin-bottom" href="#dilim-sutun-sayfa" style="--px:0.4993;--ty:0.9719">·</a><a class="pin pin-right" href="#renkli-kutular" style="--px:0.7584;--ty:0.6698">·</a><a class="pin pin-right" href="#kelime-uzerine" style="--px:0.8237;--ty:0.2406">·</a><a class="pin pin-top" href="#kelimeye-tikla" style="--px:0.4424;--ty:0.1471">·</a><a class="pin pin-right" href="#hata-bildir" style="--px:0.8237;--ty:0.3877">·</a><a class="pin pin-left" href="#madde-gezinme" style="--px:0.0365;--ty:0.4973">·</a><a class="pin pin-right" href="#madde-gezinme" style="--px:0.9607;--ty:0.4973">·</a></div></figure><article class="block" id="dilim-sutun-sayfa"><h3>Dilim, Sütun, Sayfa</h3><p>Pencere ilk açıldığında <b>Dilim</b> görünümü etkindir. Alttaki şerit, aradığınız yerin sözlüğün kaçıncı sayfasında, hangi sütununda ve o sütunun kaçıncı diliminde olduğunu söyler.</p><p><b>Sütun</b>'a tıkladığınızda sütunun tamamı açılır. <b>Sayfa</b>'ya tıkladığınızda ise sayfanın tamamını görürsünüz. Dijitalleştirilmiş kelimeler üç görünümde de işaretli kalır.</p><figure class="shot " style="--nw:1425;--ar:1.6964"><img src="../assets/kilavuz/d1-2.webp?v=2" width="1425" height="840" loading="lazy" alt=""></figure><figure class="shot " style="--nw:1425;--ar:1.6964"><img src="../assets/kilavuz/d1-3.webp?v=2" width="1425" height="840" loading="lazy" alt=""></figure></article><article class="block" id="renkli-kutular"><h3>Renkli kutular</h3><p>Maddede dijitalleştirilmiş olan kelimeler tarama üzerinde kutu içine alınır. Kutuların rengi kelime kategorisine göre değişir; sonuç listesindeki kategori ayrımının aynısı burada da geçerlidir.</p><p>Gri duran kelimeler de dijitalleştirilmiştir. Üzerlerine geldiğinizde renklenir ve dijital karşılıkları görünür.</p><figure class="shot " style="--nw:947;--ar:1.3886"><img src="../assets/kilavuz/d2-1.webp?v=2" width="947" height="682" loading="lazy" alt=""></figure></article><article class="block" id="kelime-uzerine"><h3>Kelimenin dijital karşılığı</h3><p>Bir kutunun üzerine geldiğinizde kelimenin Osmanlıca yazılışı ve Latin okunuşu alt alta belirir.</p><p>Kelime bir öbeğin parçasıysa iki katman birden görürsünüz: üstte imlecin bulunduğu kelimenin dijitali, altta öbeğin tamamının dijitali.</p><figure class="shot shot-narrow" style="--nw:222;--ar:0.6491"><img src="../assets/kilavuz/d3-1.webp?v=2" width="222" height="342" loading="lazy" alt=""></figure><figure class="shot shot-narrow" style="--nw:357;--ar:1.0500"><img src="../assets/kilavuz/d3-2.webp?v=2" width="357" height="340" loading="lazy" alt=""></figure></article><article class="block" id="kelimeye-tikla"><h3>Kelimeye tıklamak</h3><p>Tarama üzerindeki bir kelimeye yahut beliren dijital değerlerin üzerine tıkladığınızda o kelime için yeni bir arama başlar ve yeni sekmede açılır. Böylece okuduğunuz maddeden ayrılmadan yan yollara girebilirsiniz.</p><figure class="shot shot-narrow" style="--nw:357;--ar:1.0500"><img src="../assets/kilavuz/d4-1.webp?v=2" width="357" height="340" loading="lazy" alt=""></figure></article><article class="block" id="hata-bildir"><h3>Hata bildirme</h3><p>Dijitalleştirmede bir hata olduğunu düşünüyorsanız kelimenin üzerine gelin ve yanında beliren uyarı işaretine (<b>Hata bildir</b>) basın.</p><p>Açılan pencerede kelime hazır olarak gelir. Altındaki alana hatayı yahut önerdiğiniz düzeltmeyi yazıp gönderirsiniz.</p><figure class="shot shot-narrow" style="--nw:301;--ar:0.8776"><img src="../assets/kilavuz/d5-1.webp?v=3" width="301" height="343" loading="lazy" alt=""></figure><figure class="shot " style="--nw:751;--ar:1.8452"><img src="../assets/kilavuz/d5-2.webp?v=3" width="751" height="407" loading="lazy" alt=""></figure></article><article class="block" id="madde-gezinme"><h3>Önceki ve sonraki madde</h3><p>Pencerenin iki yanındaki oklarla maddeler arasında tek tıkla gezinebilirsiniz. Oklar dilim, sütun ve sayfa görünümlerinin hepsinde çalışır.</p></article></section><section aria-labelledby="cozucu"><h2 id="cozucu">Kelime Çözücü</h2><p class="section-intro">El yazması bir metinde okuyamadığınız bir kelimeyle karşılaştığınızda kullanacağınız araç budur. Okuyabildiğiniz harfleri girer, okuyamadıklarınız için işaret bırakırsınız; LexiQamus bu ölçütlere uyan kelimeleri listeler.</p><figure class="shot shot-map" style="--nw:1484;--ar:1.2938"><div class="map"><img src="../assets/kilavuz/d-cozucu-genel.webp" width="1484" height="1147" alt="Kelime Çözücü: harf kutuları ve altında açılan çözücü klavyesi"><a class="pin pin-top" href="#kutular" style="--x:47.98%;--ty:0.0262" aria-label="B1">B1</a><a class="pin pin-bottom" href="#cozucu-klavye" style="--x:50.00%;--ty:0.9738" aria-label="B2">B2</a></div></figure><article class="block" id="kutular"><h3>Kutular</h3><p>Her kutu bir karakteri temsil eder. Boş bırakılan kutu boşluk demektir, dolayısıyla tek kelimeleri olduğu gibi kelime öbeklerini de arayabilirsiniz.</p><p>Kutuların arasındaki <b>+</b> düğmeleriyle araya yeni kutu eklersiniz. Kutuların altındaki zincir işaretleri harflerin bitişik olup olmadığını gösterir; bunu belirttiğinizde sonuçlar daralır.</p></article><article class="block" id="cozucu-klavye"><h3>Çözücü klavyesi</h3><p>Bir kutuya tıkladığınızda harf klavyesi açılır. Buradan hem normal harfleri hem de benzer şekilli harfleri temsil eden özel karakterleri girebilirsiniz.</p><p>Üstteki iki yeşil tuş önemlidir. <b>*</b> okunamayan tek bir harf demektir. <b>∞</b> ise adedi bilinmeyen, bir veya birden fazla okunamayan harf anlamına gelir. Aramanız sonuç vermiyorsa, emin olmadığınız kısma bu işaretleri koyarak aramayı genişletebilirsiniz.</p><p>Bir kutuya birden fazla harf de girebilirsiniz. و, د ve ر gibi birbirine karışan harflerde, ihtimallerin hepsini aynı kutuya koyup hepsini birden aratmış olursunuz.</p></article><article class="block" id="ipucu-dolu"><h3>Doldurulmuş bir örnek</h3><p>Aşağıda okunabilen harflerin girildiği, okunamayan bir harf için <b>*</b> bırakılan ve harfler arası bitişiklik durumunun işaretlendiği bir çözücü satırı görünüyor. <b>Ara</b> düğmesine bastığınızda bu ölçütlere uyan kelimeler listelenir.</p><figure class="shot " style="--s:.68;--nw:669;--ar:5.3095"><img src="../assets/kilavuz/b3-1.webp?v=2" width="669" height="126" loading="lazy" alt=""></figure></article><article class="block" id="cozucu-sonuclar"><h3>Sonuçlar</h3><p><b>Sonuç</b>: aradığınız ölçütlere uyan kelimenin kendisi, Osmanlıca yazılışı ve Latin okunuşuyla birlikte.</p><p><b>Kategori</b>: bu kelimenin bulunduğu sözlük maddesiyle ilişkisi.</p><p><b>Madde Başı</b>: kelimenin geçtiği maddenin başlığı. Sonuç kelimesinin kendisi bir madde başı olabileceği gibi, başka bir maddenin içinde de geçiyor olabilir.</p><p><b>Sözlük</b>: kaydın alındığı eser, basım yılı ve sayfa numarası.</p><figure class="shot " style="--nw:1680;--ar:1.1483"><img src="../assets/kilavuz/c1-1.webp?v=11" width="1680" height="1463" loading="lazy" alt=""></figure></article></section><section aria-labelledby="cozucu-sonuc"><h2 id="cozucu-sonuc">Kelime Çözücü Sonuçları</h2><p class="section-intro">Çözücüyle yapılan aramanın sonuç sayfası, yukarıda anlatılan listeyle aynı şekilde çalışır. Yalnızca iki farkı vardır.</p><article class="block" id="ipuclarina-gore"><h3>İpuçlarına göre</h3><p>Sonuçların üstünde, aramayı hangi ipuçlarıyla yaptığınız kutu dizisi halinde durur. Böylece listeye bakarken hangi harfleri girdiğinizi, nereye <b>*</b> veya <b>∞</b> koyduğunuzu görebilirsiniz.</p><p>Sonuç sayısının yanındaki <b>İpuçlarına göre</b> ifadesi de listenin bu ölçütlere göre oluşturulduğunu belirtir.</p><figure class="shot " style="--nw:1664;--ar:4.9672"><img src="../assets/kilavuz/e1-1.webp?v=2" width="1664" height="335" loading="lazy" alt=""></figure></article><article class="block" id="daha-fazla"><h3>Daha fazla sonuç</h3><p>Çözücü aramaları çok sayıda sonuç verebildiği için liste bir kısmıyla açılır. Sayfanın altındaki düğme kaç sonucun gösterildiğini ve geriye kaç tane kaldığını söyler; bastığınızda listenin devamı yüklenir.</p><figure class="shot shot-narrow" style="--nw:750;--ar:5.0000"><img src="../assets/kilavuz/e2-1.webp" width="750" height="150" loading="lazy" alt=""></figure></article></section>
       </main>
   </div>
 </div>
